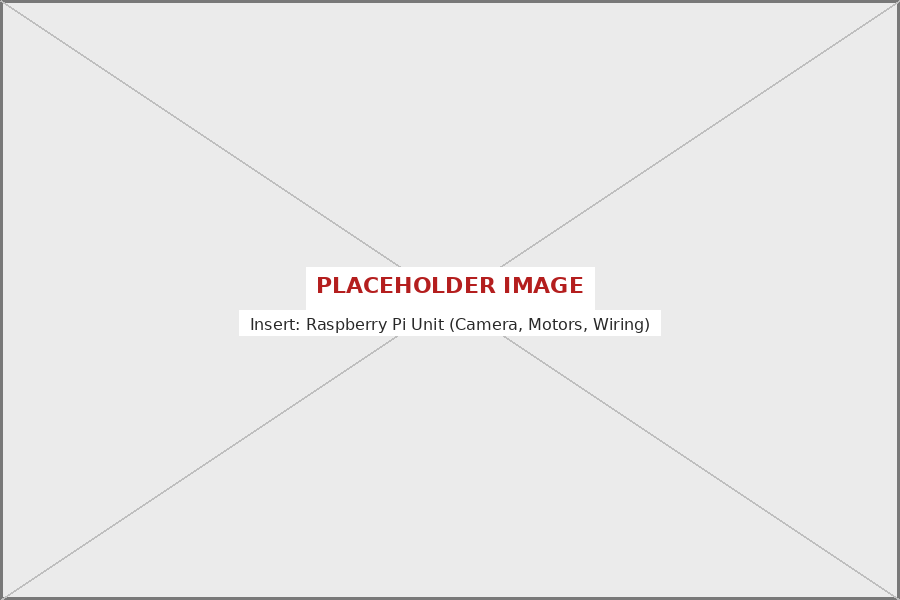
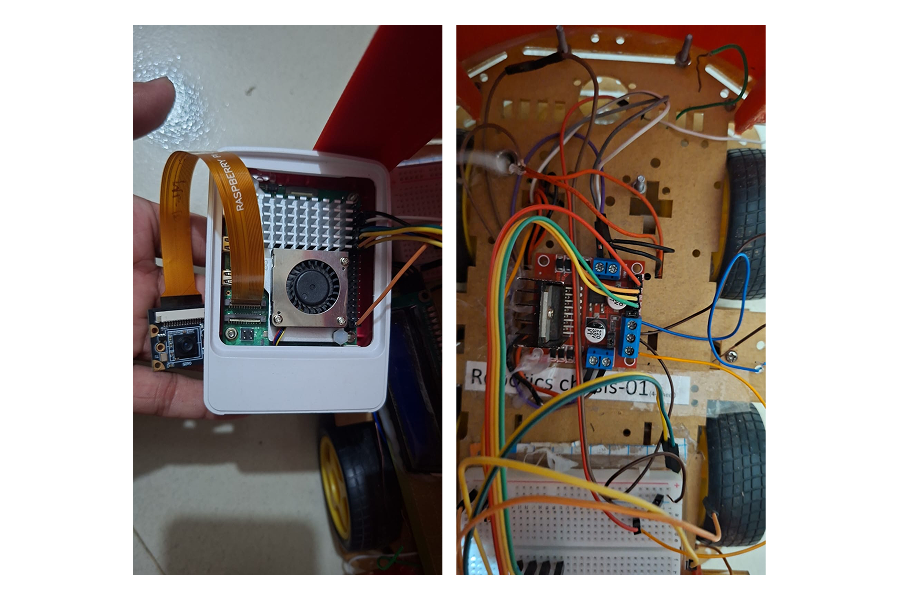
docs: add actual photos for Pi unit, LCD status, and system overview, and clean up captions

diff --git a/main.tex b/main.tex
@@ -123,7 +123,7 @@ Figures \ref{fig:piunit}, \ref{fig:turretunit}, \ref{fig:lcdstatus}, and \ref{fi
 \begin{figure}[H]
 \centering
 \includegraphics[width=0.95\linewidth]{fig_pi_unit.png}
-\caption{Raspberry Pi unit showing the camera module, drive motor wiring, and main control board. \textit{[Placeholder -- insert photo of the Raspberry Pi and drive subsystem here.]}}
+\caption{Raspberry Pi unit showing the camera module, drive motor wiring, and main control board.}
 \label{fig:piunit}
 \end{figure}
 
@@ -137,7 +137,7 @@ Figures \ref{fig:piunit}, \ref{fig:turretunit}, \ref{fig:lcdstatus}, and \ref{fi
 \begin{figure}[H]
 \centering
 \includegraphics[width=0.95\linewidth]{fig_lcd_status.png}
-\caption{LCD status display showing a live status message during the fire sequence (e.g., ``TARGET LOCKED'' / ``FIRE!!!''). \textit{[Placeholder -- insert close-up photo of the LCD display here.]}}
+\caption{LCD status display showing a live status message during the fire sequence (e.g., ``TARGET LOCKED'' / ``FIRE!!!'').}
 \label{fig:lcdstatus}
 \end{figure}
 
@@ -249,7 +249,7 @@ Fig.~\ref{fig:overview} shows the fully assembled rover, combining the driving c
 \begin{figure}[H]
 \centering
 \includegraphics[width=0.95\linewidth]{fig_system_overview.png}
-\caption{Complete assembled Autonomous Tactical Rover prototype, integrating the Raspberry Pi drive unit and Arduino Nano turret. \textit{[Placeholder -- insert full system photo here.]}}
+\caption{Complete assembled Autonomous Tactical Rover prototype, integrating the Raspberry Pi drive unit and Arduino Nano turret.}
 \label{fig:overview}
 \end{figure}
 